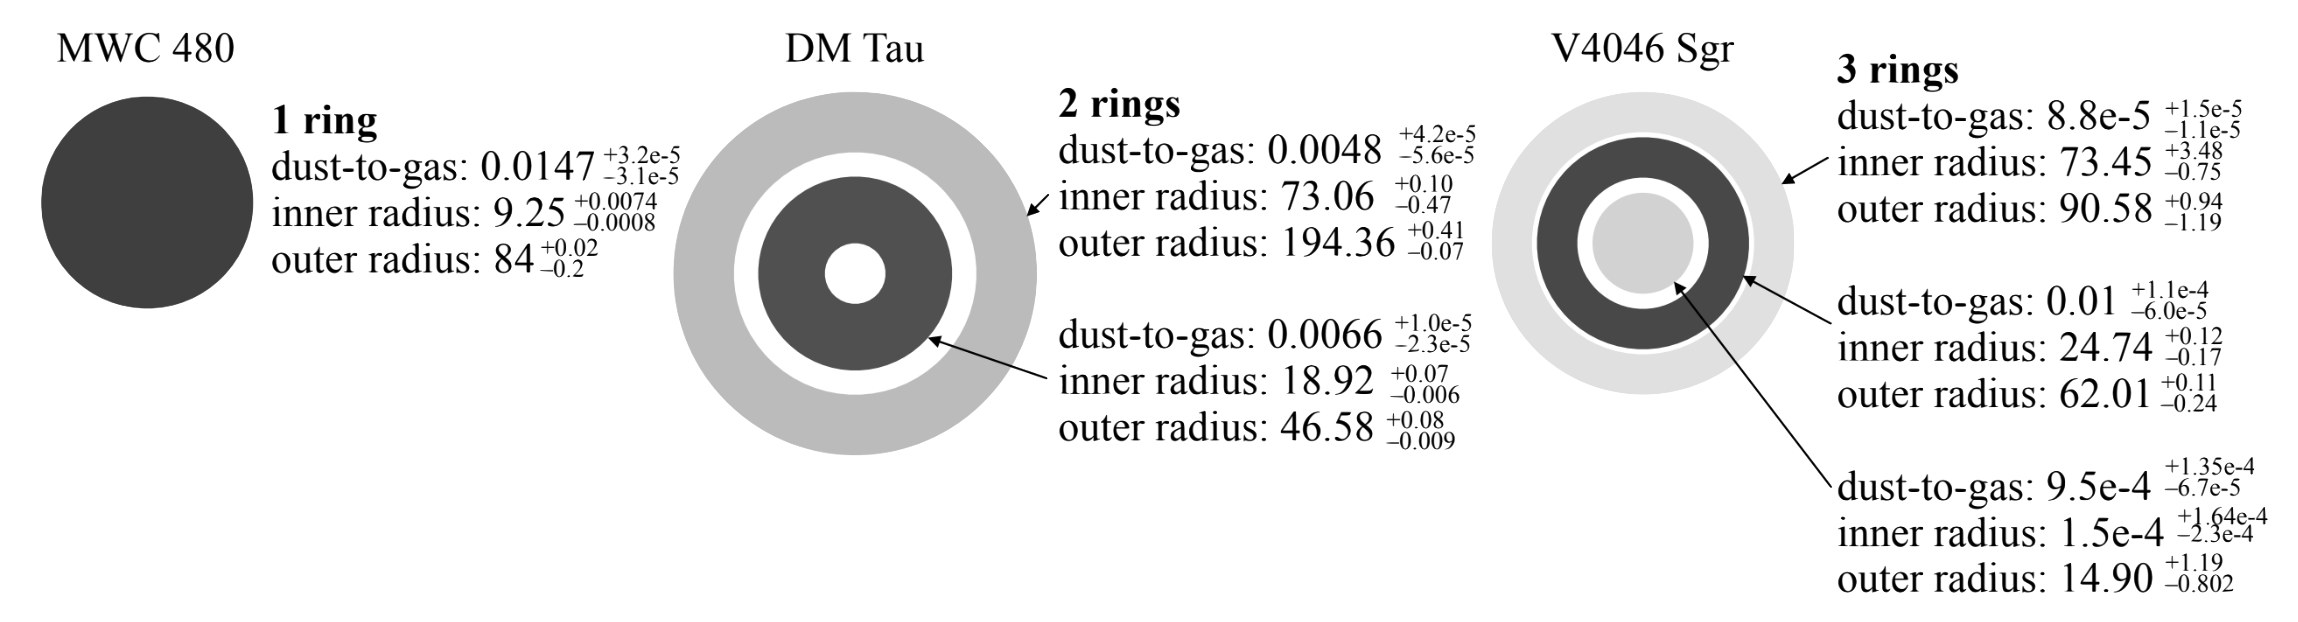
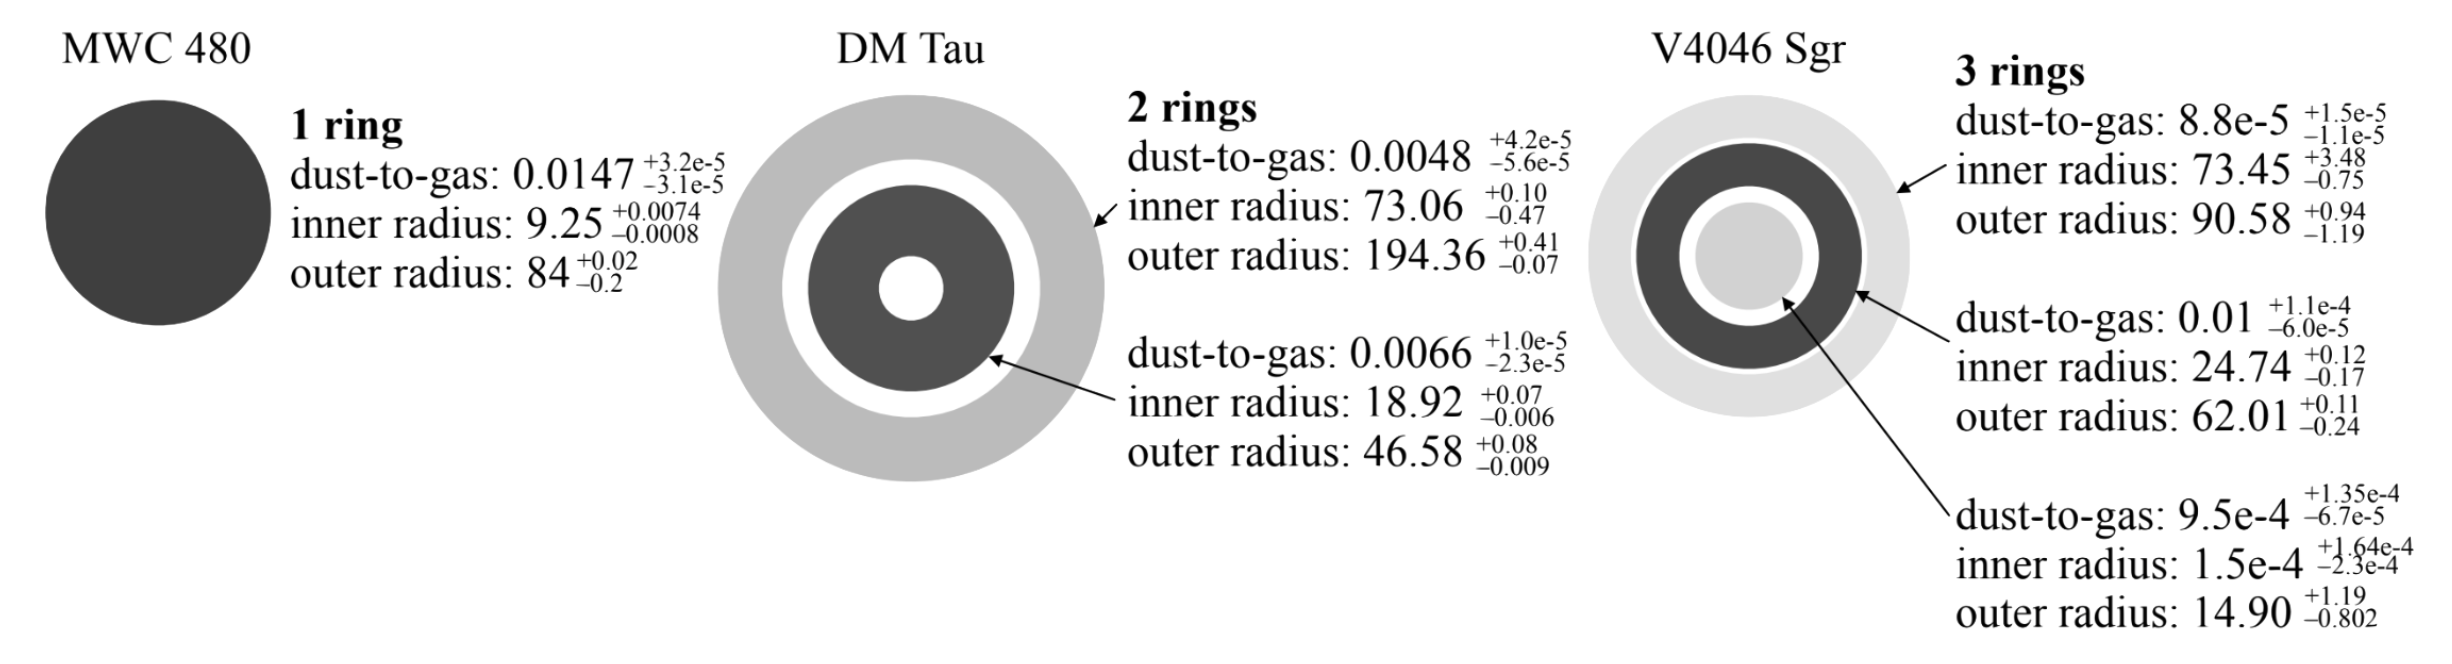
Changed astro page, updated disk stats fig to not be transparent

diff --git a/01astronomy.md b/01astronomy.md
@@ -6,9 +6,14 @@ permalink: /astronomy/
 
 I am thankful to have had several opportunities to do super cool research in astronomy during my undergraduate career. What follows is a summary of each of those projects.
 
+### Star Formation
+
+(A summary of PASHION is in progress!)
+
 ### Radio Instrumentation
 
-The [Green Bank Telescope](https://greenbankobservatory.org/science/telescopes/gbt/) is currently being used in [NANOGrav](http://nanograv.org/)'s search for gravitational waves by acting as a **stopwatch for pulsars**. Pulsars are rapidly-rotating neutron stars that emit regular radio pulses. Gravitational waves passing between the Earth and the pulsar will change their apparent pulse period. Green Bank Observatory is designing an **ultra-wideband (6:1)** radio receiver that can make simultaneous wideband observations of pulsars to precisely measure their signal timing. I calculated the predicted efficiency of the receiver and calculated waveguide mode excitation in the receiver to try to diagnose a dip in efficiency at a certain frequency. Here's a [video](https://www.youtube.com/watch?v=Zfygjjy-36U) featuring me talking a little about my summer in Green Bank.
+The [Green Bank Telescope](https://greenbankobservatory.org/science/telescopes/gbt/) is currently being used in [NANOGrav](http://nanograv.org/)'s search for gravitational waves by acting as a **stopwatch for pulsars**. Pulsars are rapidly-rotating neutron stars that emit regular radio pulses. Gravitational waves passing between the Earth and the pulsar will change their apparent pulse period. Green Bank Observatory is designing an **ultra-wideband (6:1)** radio receiver that can make simultaneous wideband observations of pulsars to precisely measure their signal timing. I calculated the predicted efficiency of the receiver and calculated waveguide mode excitation in the receiver to try to diagnose a dip in efficiency at a certain frequency. 
+- Here's a [video](https://www.youtube.com/watch?v=Zfygjjy-36U) featuring me talking a little about my summer in Green Bank.
 
 <p align="center">
   <img src="https://abulatek.github.io/resources/radio_inst_header.jpg" width="100%" alt="The Green Bank Telescope at left, with a not-to-scale model image of the ultra-wideband feed horn at right."/>
@@ -16,7 +21,8 @@ The [Green Bank Telescope](https://greenbankobservatory.org/science/telescopes/g
 
 ### Infrared Instrumentation
 
-The [NEO Surveyor](https://uanews.arizona.edu/story/uarizona-looks-toward-work-nasa-s-potential-asteroidhunting-space-telescope) spacecraft is designed to find, track, and characterize **potentially hazardous asteroids** (large and close to the Earth). The University of Rochester is contributing to the NEOSM project by characterizing prototypes of the high sensitivity 16-megapixel cameras that will fly on NEO Surveyor. During an REU at UR, I wrote an algorithm to correct for an image-blurring effect that plagues long-wavelength (~10-micron) IR detectors called **interpixel capacitance (IPC)**. IPC spreads signal from one pixel to its neighbors via capacitance between the pixels. It has been shown to be **signal-dependent**: the more signal deposited onto a pixel, the less signal gets spread to nearby pixels. So, to correct for IPC effectively, we must measure the relationship between signal spread and signal strength. I wrote an [Astrobites](https://astrobites.org/2018/11/05/ur-interpixel-capacitance/) post about this project.
+The [NEO Surveyor](https://uanews.arizona.edu/story/uarizona-looks-toward-work-nasa-s-potential-asteroidhunting-space-telescope) spacecraft is designed to find, track, and characterize **potentially hazardous asteroids** (large and close to the Earth). The University of Rochester is contributing to the NEOSM project by characterizing prototypes of the high sensitivity 16-megapixel cameras that will fly on NEO Surveyor. During an REU at UR, I wrote an algorithm to correct for an image-blurring effect that plagues long-wavelength (~10-micron) IR detectors called **interpixel capacitance (IPC)**. IPC spreads signal from one pixel to its neighbors via capacitance between the pixels. It has been shown to be **signal-dependent**: the more signal deposited onto a pixel, the less signal gets spread to nearby pixels. So, to correct for IPC effectively, we must measure the relationship between signal spread and signal strength. 
+- I wrote an [Astrobites](https://astrobites.org/2018/11/05/ur-interpixel-capacitance/) post about this project.
 
 <p align="center">
   <img src="https://abulatek.github.io/resources/ir_inst_header.png" width="100%" alt="The NEO Surveyor Spacecraft at left, with a plot showing the relationship between interpixel coupling and signal strength at right."/>
@@ -24,7 +30,9 @@ The [NEO Surveyor](https://uanews.arizona.edu/story/uarizona-looks-toward-work-n
 
 ### Dwarf Galaxies
 
-The research group I was part of at Macalester was led by Dr. John Cannon. I worked with him as part of two different classes, during which we imaged three dwarf local volume dwarf galaxies. In the spring of 2018, my Observational Astronomy course at Macalester analyzed 21 cm data from the VLA on KDG 215, which has a very interesting (and predominantly recent) star formation history. An image of KDG 215 is shown below. My second semester at Macalester, I worked in a research group with several students imaging two other dwarf galaxies (UGC 11411 and UGC 8245). Our work was featured by [AAS Nova](https://aasnova.org/2017/10/11/exploring-our-low-mass-neighbors/). Some of the first-year researchers in the group who got REU positions were [featured on the Macalester website](https://www.macalester.edu/news/2017/08/first-year-firecrackers/), and interviews with each of us are included.
+The research group I was part of at Macalester was led by Dr. John Cannon. I worked with him as part of two different classes, during which we **imaged three local volume dwarf galaxies**. In the spring of 2018, my Observational Astronomy course at Macalester analyzed 21 cm data from the VLA on KDG 215, which has a very interesting (and predominantly recent) star formation history. An image of KDG 215 is shown below. My second semester at Macalester, I worked in a research group with several students imaging two other dwarf galaxies (UGC 11411 and UGC 8245). 
+- Our work was featured by [AAS Nova](https://aasnova.org/2017/10/11/exploring-our-low-mass-neighbors/). 
+- Some of the first-year researchers in the group who got REU positions were [featured on the Macalester website](https://www.macalester.edu/news/2017/08/first-year-firecrackers/), and interviews with each of us are included.
 
 <p align="center">
   <img src="https://abulatek.github.io/resources/galaxy_header.jpg" width="100%" alt="A series of HI images of KDG 215. The HI column density map of the dwarf galaxy at left, the line-of-sight velocity of the HI at center, and the velocity dispersion of the HI at right."/>
@@ -32,7 +40,7 @@ The research group I was part of at Macalester was led by Dr. John Cannon. I wor
 
 ### Circumstellar Disks
 
-During summer 2017, I took part in the KNAC REU at Wesleyan University working with Dr. Kevin Flaherty (now at Williams College). I used data from ALMA to **image the dust structure** of three circumstellar disks. For the disks around V4046 Sgr, MWC 480, and DM Tau, we were able to resolve down to spatial scales of 18, 29, and 25 AU respectively. We used **MCMC modeling** to determine the dust-to-gas ratios in the rings in each of the disk as well as disk radii. This modeling work was preliminary, but allowed me to get familiar with MCMC techniques.
+During summer 2017, I took part in the KNAC REU at Wesleyan University working with Dr. Kevin Flaherty (now at Williams College). I used data from ALMA to **image the dust structure of three circumstellar disks**. For the disks around V4046 Sgr, MWC 480, and DM Tau, we were able to resolve down to spatial scales of 18, 29, and 25 AU respectively. We used **MCMC modeling** to determine the dust-to-gas ratios in the rings in each of the disk as well as disk radii. This modeling work was preliminary, but allowed me to get familiar with MCMC techniques.
 
 <p align="center">
   <img src="https://abulatek.github.io/resources/disk_stats.png" width="100%" alt="Disk statistics for the three circumstellar disks we imaged." />
